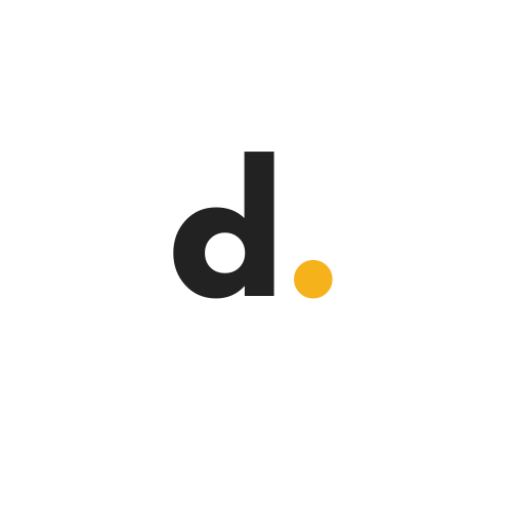
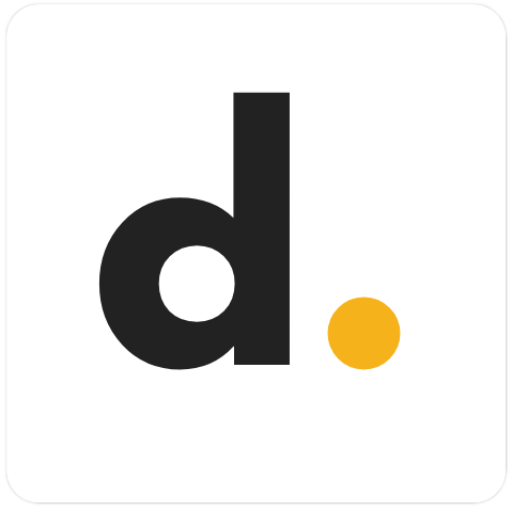
Fix assets
Add appreciation for tailwincss folks

Changed region(s): [[0.1875, 0.1562, 0.7812, 0.75]]

diff --git a/src/pages/_app.js b/src/pages/_app.js
@@ -22,6 +22,11 @@ export default function App({ Component, pageProps }) {
       <SectionContainer>
         <main>
           <Component {...pageProps} />
+					<div>
+						<p className="text-center">
+							<h1 className="h-4 p-6 m-3 text-gray-700">Special thanks to the folks at <a href="https://blog.tailwind.com" className="text-yellow-400 hover:text-yellow-500">TailwindCSS</a> for the inspiration 🥂</h1>
+						</p>
+					</div>
         </main>
       </SectionContainer>
     </div>
